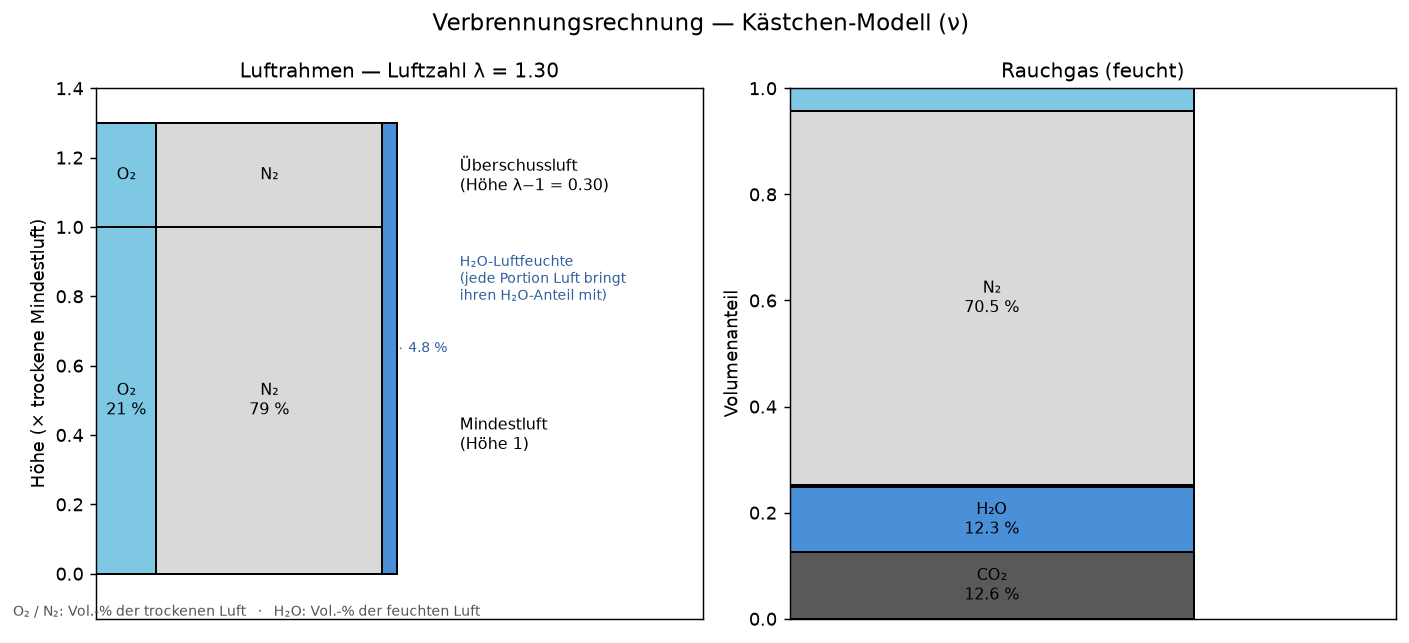
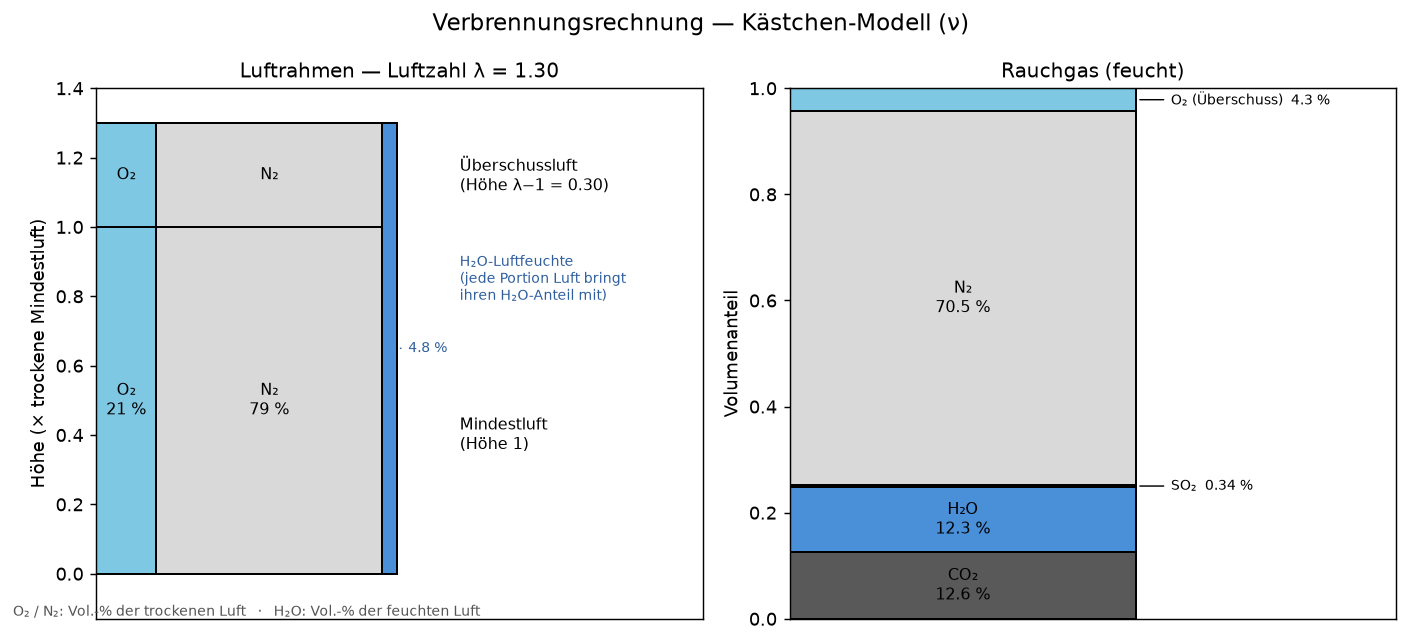
Rauchgas: alle 5 Komponenten beschriftet, duenne (SO2, O2) mit Fuehrungslinie

diff --git a/visualisierung.py b/visualisierung.py
@@ -79,10 +79,19 @@ def zeichne_rauchgas(ax, rg: Rauchgas):
     y = 0.0
     for k in reihenfolge:
         h = anteile[k]
-        _kasten(ax, 0, y, 1, h, FARBE[k], f"{labels[k]}\n{100*h:.1f} %")
+        _kasten(ax, 0, y, 1, h, FARBE[k])           # ohne Text zeichnen
+        ymid = y + h / 2
+        prozent = f"{100*h:.2f} %" if h < 0.01 else f"{100*h:.1f} %"
+        if h >= 0.05:
+            ax.text(0.5, ymid, f"{labels[k]}\n{prozent}", ha="center", va="center", fontsize=9)
+        else:
+            # zu dünnes Kästchen: Label mit Führungslinie nach rechts
+            ax.annotate(f"{labels[k]}  {prozent}", xy=(1, ymid), xytext=(1.10, ymid),
+                        va="center", fontsize=8,
+                        arrowprops=dict(arrowstyle="-", lw=0.8, color="black"))
         y += h
 
-    ax.set_xlim(0, 1.5)
+    ax.set_xlim(0, 1.75)
     ax.set_ylim(0, 1.0)
     ax.set_title("Rauchgas (feucht)", fontsize=11)
     ax.set_xticks([])
